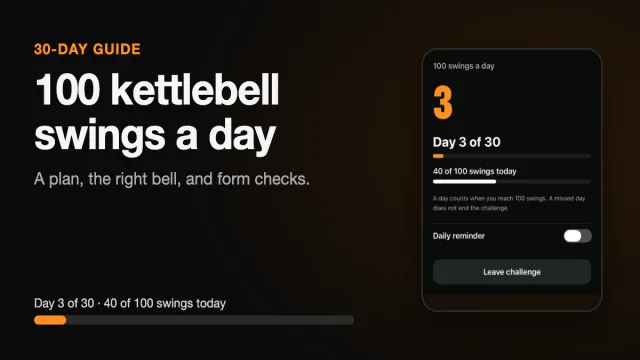
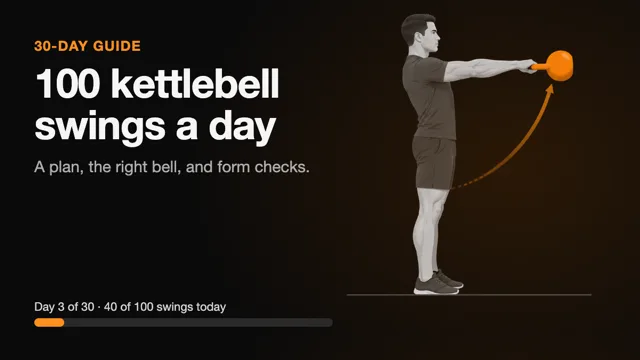
Add illustrated figures to the 30-day plan, bell guide and share card

diff --git a/blog/100-kettlebell-swings-a-day/index.html b/blog/100-kettlebell-swings-a-day/index.html
@@ -82,7 +82,7 @@
             </div>
 
             <figure class="hero-figure">
-                <img src="plan-calendar.webp" width="1200" height="690" style="aspect-ratio: 1200 / 690" alt="A 30-day calendar for 100 kettlebell swings a day: days 1 to 10 are 10 sets of 10, days 11 to 20 are 5 sets of 20, and days 21 to 30 are 4 sets of 25" fetchpriority="high">
+                <img src="plan-calendar.webp" width="1200" height="800" style="aspect-ratio: 1200 / 800" alt="An athlete at the top of a kettlebell swing above a 30-day calendar for 100 kettlebell swings a day: days 1 to 10 are 10 sets of 10, days 11 to 20 are 5 sets of 20, and days 21 to 30 are 4 sets of 25" fetchpriority="high">
                 <figcaption>My 30-day plan: the same 100 swings every day, with longer sets every 10 days.</figcaption>
             </figure>
 
@@ -113,7 +113,7 @@
 
                 <h2 id="weight">What weight for 100 kettlebell swings a day?</h2>
                 <figure>
-                    <img src="bell-weight-guide.webp" width="1200" height="560" style="aspect-ratio: 1200 / 560" alt="A guide to choosing a kettlebell weight for 100 swings a day: signs of the right bell, signs of a bell that is too heavy, and two reference points" loading="lazy">
+                    <img src="bell-weight-guide.webp" width="1200" height="760" style="aspect-ratio: 1200 / 760" alt="A guide to choosing a kettlebell weight for 100 swings a day: an athlete swinging the right bell to chest height, an athlete leaning back with a bell that is too heavy, and two reference points" loading="lazy">
                     <figcaption>Choose by how the swing looks and feels, not by a number.</figcaption>
                 </figure>
                 <p>There is no one weight. Here are two reference points:</p>
